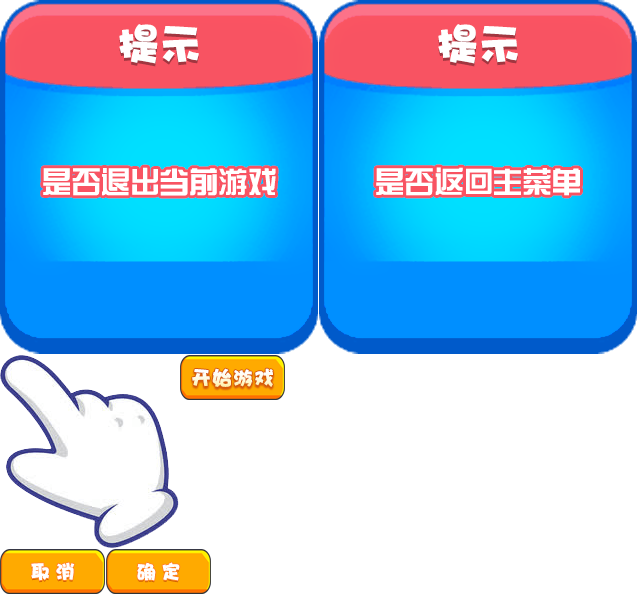
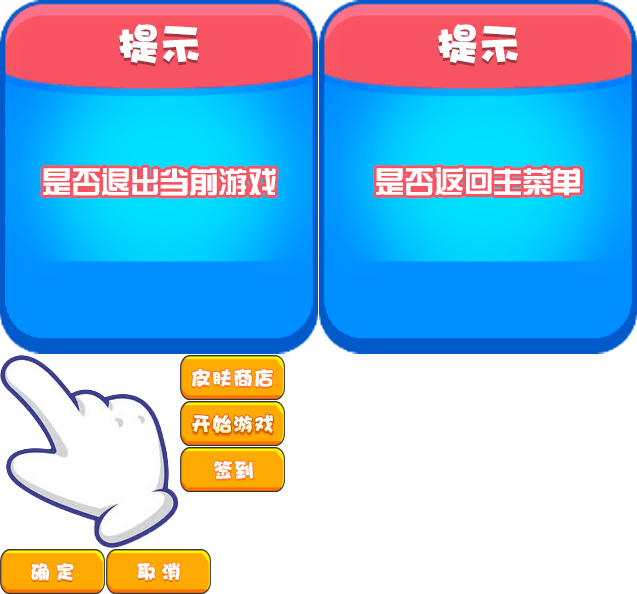
修改小手指

Changed region(s): [[0.2684, 0.6061, 0.4474, 0.8485], [0.2088, 0.9394, 0.2983, 1.0], [0.0298, 0.9394, 0.1193, 1.0]]

diff --git a/bin/js/bundle.js b/bin/js/bundle.js
@@ -2297,23 +2297,21 @@
 			this.btnPlay = this.getChild("btnPlay", bottomPanel);
 			this.btnPlayX = parseInt(this.btnPlay.x);
 			this.btnPlayY = parseInt(this.btnPlay.y);
-			this.btnPlayOffsetPointX = 350;
-			this.btnPlayOffsetPointY = 70;
+			this.btnOffsetPointX = 80;
+			this.btnOffsetPointY = 30;
 			this.btnPointer = new Laya.Image("res/sz.png");
 			this.btnPointer.scaleX = 0.3;
 			this.btnPointer.scaleY = 0.3;
-			this.btnPointer.pos(this.btnPlayX + this.btnPlayOffsetPointX, this.btnPlayY + this.btnPlayOffsetPointY);
+			this.btnPointer.pos(this.btnPlayX + this.btnOffsetPointX, this.btnPlayY + this.btnOffsetPointY);
 			bottomPanel.addChild(this.btnPointer);
 			this.focusView = "btnPlay";
 			this.btnRank = this.getChild("btnRank", bottomPanel);
 			this.btnSkin = this.getChild("btnSkin", bottomPanel);
 			this.btnSkinX = parseInt(this.btnSkin.x);
 			this.btnSkinY = parseInt(this.btnSkin.y);
-			this.btnSkinOffsetPoint = 50;
 			this.btnSiginIn = this.getChild("btnSiginIn", bottomPanel);
 			this.btnSignX = parseInt(this.btnSiginIn.x);
 			this.btnSignY = parseInt(this.btnSiginIn.y);
-			this.btnSignOffsetPoint = 50;
 			this.btnShare = this.getChild("btnShare", bottomPanel);
 			this.btnMore = this.getChild("btnMore", bottomPanel);
 			this.btnCollect = this.getChild("btnCollect", bottomPanel);
@@ -2327,20 +2325,20 @@
 			this.exitDialog = new Laya.Dialog();
 			var bg = new Laya.Image("res/bg_exit.png");
 			this.exitDialog.addChild(bg);
-			let btnConfirm = new Laya.Image("res/confirm_select.png");
+			let btnConfirm = new Laya.Image("res/confirm.png");
 			btnConfirm.pos(18, 285);
 			this.exitDialog.addChild(btnConfirm);
 
 
-			let btnCancel = new Laya.Image("res/cancel_select.png");
+			let btnCancel = new Laya.Image("res/cancel.png");
 			btnCancel.pos(195, 285);
 			this.exitDialog.addChild(btnCancel);
 
-			var btnSz = new Laya.Image("res/sz.png");
-			btnSz.scaleX = 0.3;
-			btnSz.scaleY = 0.3;
-			btnSz.pos(100, 300);
-			this.exitDialog.addChild(btnSz);
+			this. btnSz = new Laya.Image("res/sz.png");
+			this.btnSz.scaleX = 0.3;
+			this.btnSz.scaleY = 0.3;
+			this.btnSz.pos(100, 300);
+			this.exitDialog.addChild(this.btnSz);
 			this.exitDialog.popup();
 			this.exitDialogShow = true;
 		}
@@ -2386,35 +2384,41 @@
 					case 66:
 						this.onBtnClick();
 						break;
-					case 38:
-					case 19://上
-					case 40:
-					case 20://下
 					case 37:
 					case 21://左
-					case 39:
-						console.log(">--focusView==39");
-						this.changeFocus();
+						this.changeFocus(false);
 						break;
+					case 39:
 					case 22://右
-						console.log(">--focusView==39");
-						this.changeFocus();
+						this.changeFocus(true);
 						break;
 				}
 			}
 		}
-		changeFocus() {
-			if (this.focusView == "btnPlay") {
-				this.focusView = "btnSkin";
-				this.btnPointer.pos(this.btnSkinX + this.btnSkinOffsetPoint, this.btnSkinY + this.btnSkinOffsetPoint);
-			} else if (this.focusView == "btnSkin") {
-				this.focusView = "btnSign";
-				this.btnPointer.pos(this.btnSignX + this.btnSkinOffsetPoint, this.btnSignY + this.btnSkinOffsetPoint);
-			} else {
-				this.focusView = "btnPlay";
-				this.btnPointer.pos(this.btnPlayX + this.btnPlayOffsetPointX, this.btnPlayY + this.btnPlayOffsetPointY);
+		changeFocus(toRight) {
+			if(toRight){
+				if (this.focusView == "btnPlay") {
+					this.focusView = "btnSkin";
+					this.btnPointer.pos(this.btnSkinX + this.btnOffsetPointX, this.btnSkinY + this.btnOffsetPointY);
+				} else if (this.focusView == "btnSkin") {
+					this.focusView = "btnSign";
+					this.btnPointer.pos(this.btnSignX + this.btnOffsetPointX, this.btnSignY + this.btnOffsetPointY);
+				} else {
+					this.focusView = "btnPlay";
+					this.btnPointer.pos(this.btnPlayX + this.btnOffsetPointX, this.btnPlayY + this.btnOffsetPointY);
+				}
+			}else{
+				if (this.focusView == "btnPlay") {
+					this.focusView = "btnSign";
+					this.btnPointer.pos(this.btnSignX + this.btnOffsetPointX, this.btnSignY + this.btnOffsetPointY);
+				} else if (this.focusView == "btnSkin") {
+					this.focusView = "btnPlay";
+					this.btnPointer.pos(this.btnPlayX + this.btnOffsetPointX, this.btnPlayY + this.btnOffsetPointY);
+				} else {
+					this.focusView = "btnSkin";
+					this.btnPointer.pos(this.btnSkinX + this.btnOffsetPointX, this.btnSkinY + this.btnOffsetPointY);
+				}
 			}
-			console.log(">--focusView=="+this.focusView);
 		}
 		initEvent() {
 			LayaSample.utils.addClickEvent(this.btnVibrate, this, this.onVibrateClick);

diff --git a/src/Main.js b/src/Main.js
@@ -2294,23 +2294,21 @@ class qq_HomeView extends BVHdla {
 		this.btnPlay = this.getChild("btnPlay", bottomPanel);
 		this.btnPlayX = parseInt(this.btnPlay.x);
 		this.btnPlayY = parseInt(this.btnPlay.y);
-		this.btnPlayOffsetPointX = 350;
-		this.btnPlayOffsetPointY = 70;
+		this.btnOffsetPointX = 80;
+		this.btnOffsetPointY = 30;
 		this.btnPointer = new Laya.Image("res/sz.png");
 		this.btnPointer.scaleX = 0.3;
 		this.btnPointer.scaleY = 0.3;
-		this.btnPointer.pos(this.btnPlayX + this.btnPlayOffsetPointX, this.btnPlayY + this.btnPlayOffsetPointY);
+		this.btnPointer.pos(this.btnPlayX + this.btnOffsetPointX, this.btnPlayY + this.btnOffsetPointY);
 		bottomPanel.addChild(this.btnPointer);
 		this.focusView = "btnPlay";
 		this.btnRank = this.getChild("btnRank", bottomPanel);
 		this.btnSkin = this.getChild("btnSkin", bottomPanel);
 		this.btnSkinX = parseInt(this.btnSkin.x);
 		this.btnSkinY = parseInt(this.btnSkin.y);
-		this.btnSkinOffsetPoint = 50;
 		this.btnSiginIn = this.getChild("btnSiginIn", bottomPanel);
 		this.btnSignX = parseInt(this.btnSiginIn.x);
 		this.btnSignY = parseInt(this.btnSiginIn.y);
-		this.btnSignOffsetPoint = 50;
 		this.btnShare = this.getChild("btnShare", bottomPanel);
 		this.btnMore = this.getChild("btnMore", bottomPanel);
 		this.btnCollect = this.getChild("btnCollect", bottomPanel);
@@ -2324,20 +2322,20 @@ class qq_HomeView extends BVHdla {
 		this.exitDialog = new Laya.Dialog();
 		var bg = new Laya.Image("res/bg_exit.png");
 		this.exitDialog.addChild(bg);
-		let btnConfirm = new Laya.Image("res/confirm_select.png");
+		let btnConfirm = new Laya.Image("res/confirm.png");
 		btnConfirm.pos(18, 285);
 		this.exitDialog.addChild(btnConfirm);
 
 
-		let btnCancel = new Laya.Image("res/cancel_select.png");
+		let btnCancel = new Laya.Image("res/cancel.png");
 		btnCancel.pos(195, 285);
 		this.exitDialog.addChild(btnCancel);
 
-		var btnSz = new Laya.Image("res/sz.png");
-		btnSz.scaleX = 0.3;
-		btnSz.scaleY = 0.3;
-		btnSz.pos(100, 300);
-		this.exitDialog.addChild(btnSz);
+		this. btnSz = new Laya.Image("res/sz.png");
+		this.btnSz.scaleX = 0.3;
+		this.btnSz.scaleY = 0.3;
+		this.btnSz.pos(100, 300);
+		this.exitDialog.addChild(this.btnSz);
 		this.exitDialog.popup();
 		this.exitDialogShow = true;
 	}
@@ -2383,35 +2381,41 @@ class qq_HomeView extends BVHdla {
 				case 66:
 					this.onBtnClick();
 					break;
-				case 38:
-				case 19://上
-				case 40:
-				case 20://下
 				case 37:
 				case 21://左
-				case 39:
-					console.log(">--focusView==39");
-					this.changeFocus();
+					this.changeFocus(false);
 					break;
+				case 39:
 				case 22://右
-					console.log(">--focusView==39");
-					this.changeFocus();
+					this.changeFocus(true);
 					break;
 			}
 		}
 	}
-	changeFocus() {
-		if (this.focusView == "btnPlay") {
-			this.focusView = "btnSkin";
-			this.btnPointer.pos(this.btnSkinX + this.btnSkinOffsetPoint, this.btnSkinY + this.btnSkinOffsetPoint);
-		} else if (this.focusView == "btnSkin") {
-			this.focusView = "btnSign";
-			this.btnPointer.pos(this.btnSignX + this.btnSkinOffsetPoint, this.btnSignY + this.btnSkinOffsetPoint);
-		} else {
-			this.focusView = "btnPlay";
-			this.btnPointer.pos(this.btnPlayX + this.btnPlayOffsetPointX, this.btnPlayY + this.btnPlayOffsetPointY);
+	changeFocus(toRight) {
+		if(toRight){
+			if (this.focusView == "btnPlay") {
+				this.focusView = "btnSkin";
+				this.btnPointer.pos(this.btnSkinX + this.btnOffsetPointX, this.btnSkinY + this.btnOffsetPointY);
+			} else if (this.focusView == "btnSkin") {
+				this.focusView = "btnSign";
+				this.btnPointer.pos(this.btnSignX + this.btnOffsetPointX, this.btnSignY + this.btnOffsetPointY);
+			} else {
+				this.focusView = "btnPlay";
+				this.btnPointer.pos(this.btnPlayX + this.btnOffsetPointX, this.btnPlayY + this.btnOffsetPointY);
+			}
+		}else{
+			if (this.focusView == "btnPlay") {
+				this.focusView = "btnSign";
+				this.btnPointer.pos(this.btnSignX + this.btnOffsetPointX, this.btnSignY + this.btnOffsetPointY);
+			} else if (this.focusView == "btnSkin") {
+				this.focusView = "btnPlay";
+				this.btnPointer.pos(this.btnPlayX + this.btnOffsetPointX, this.btnPlayY + this.btnOffsetPointY);
+			} else {
+				this.focusView = "btnSkin";
+				this.btnPointer.pos(this.btnSkinX + this.btnOffsetPointX, this.btnSkinY + this.btnOffsetPointY);
+			}
 		}
-		console.log(">--focusView=="+this.focusView);
 	}
 	initEvent() {
 		LayaSample.utils.addClickEvent(this.btnVibrate, this, this.onVibrateClick);
